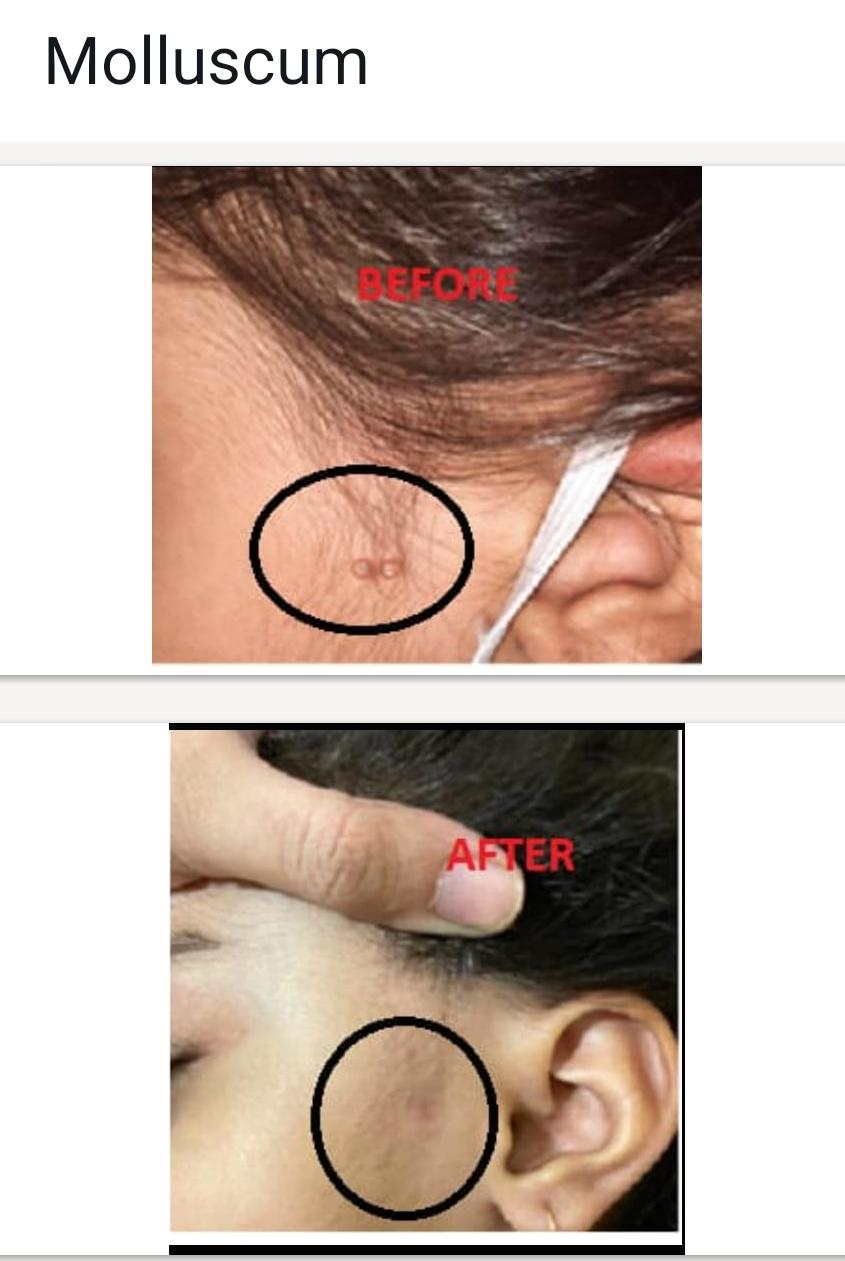
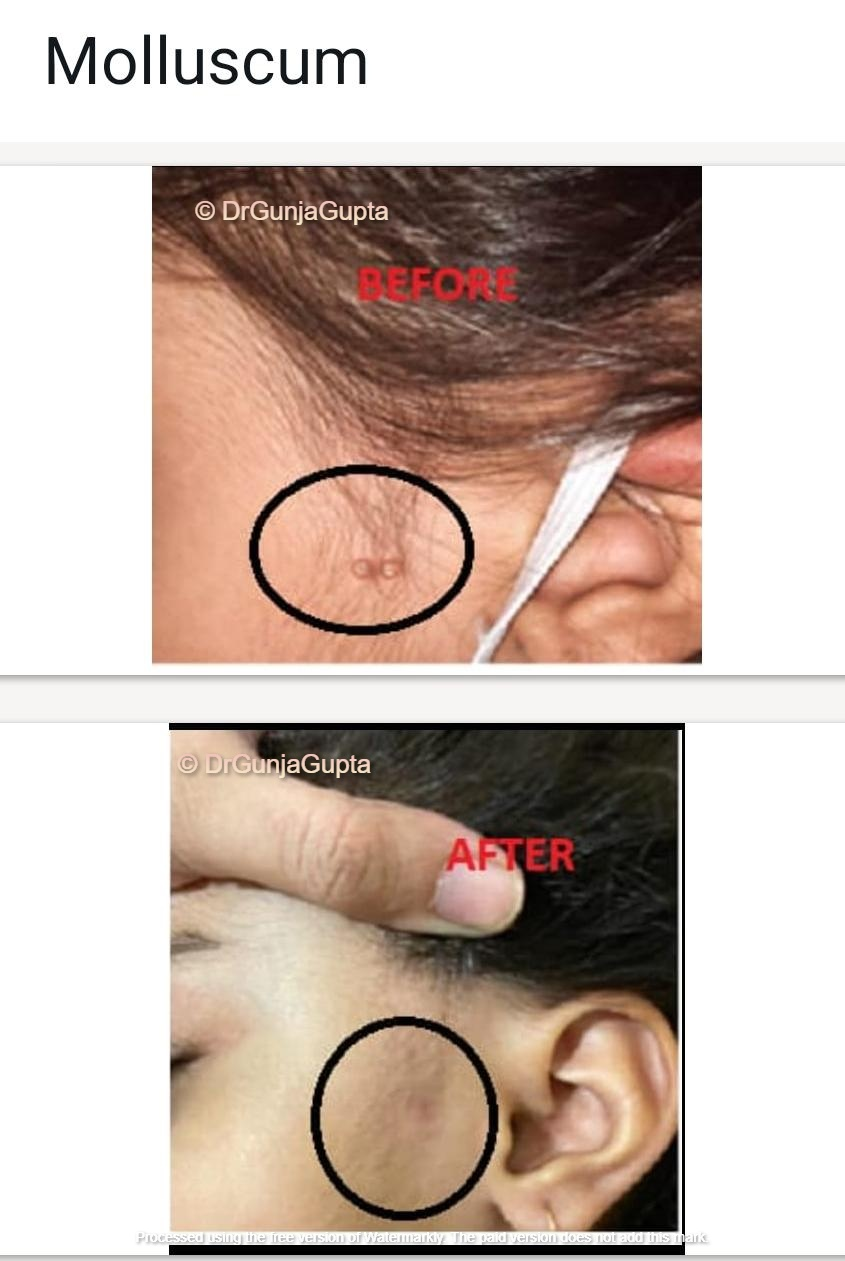
Update watermark design on before/after and video cards

diff --git a/index.html b/index.html
@@ -560,20 +560,16 @@ section { padding: 100px 5%; position: relative; }
   padding: 4px 12px; border-radius: 16px; z-index: 2;
   box-shadow: 0 2px 8px rgba(0,0,0,0.2);
 }
-.ba-card::after {
-  content: 'Dr. Gunja Gupta';
-  position: absolute; bottom: 12px; right: 12px;
-  background: rgba(0, 0, 0, 0.45);
-  backdrop-filter: blur(4px);
-  color: rgba(255, 255, 255, 0.95);
-  padding: 5px 12px;
-  border-radius: 20px;
-  font-size: 0.75rem;
+.ba-card::after, .pf-video-thumb::after {
+  content: '© Dr. Gunja Gupta';
+  position: absolute; top: 50%; left: 50%;
+  transform: translate(-50%, -50%);
+  color: rgba(0, 0, 0, 0.5);
+  font-size: 1.1rem;
   font-weight: 600;
-  letter-spacing: 0.3px;
   pointer-events: none;
-  z-index: 2;
-  box-shadow: 0 2px 8px rgba(0,0,0,0.2);
+  z-index: 3;
+  white-space: nowrap;
 }
 
 /* -- staggered card reveal -- */
